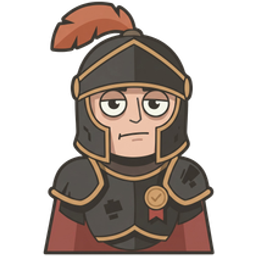
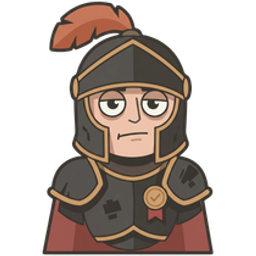
feat：剪切图片透明背景

diff --git a/tmp/run_trim_all.js b/tmp/run_trim_all.js
@@ -91,9 +91,13 @@ const SPEC = {
       continue;
     }
 
-    // resize trimmed → canonical 尺寸 with fit:contain
+    // UI 类：fit:'inside' 不加 padding，输出尺寸 = 内容缩放后尺寸（≤ tw×th）
+    // 其他类：fit:'contain' + bottom，缺差按透明 padding 顶部补齐
+    const resizeOpts = cat === 'ui'
+      ? { fit: 'inside', background: { r:0, g:0, b:0, alpha:0 } }
+      : { fit: 'contain', position: 'bottom', background: { r:0, g:0, b:0, alpha:0 } };
     const out = await sharp(buf1)
-      .resize(tw, th, { fit: 'contain', background: { r:0, g:0, b:0, alpha:0 } })
+      .resize(tw, th, resizeOpts)
       .png({ compressionLevel: 9 })
       .toBuffer();
     const m2 = await sharp(out).metadata();

diff --git a/tmp/run_aiart_bust.js b/tmp/run_aiart_bust.js
@@ -174,7 +174,7 @@ async function runOne(asset, stats) {
 
   await sharp(rmbgRaw)
     .trim({ background: { r: 0, g: 0, b: 0, alpha: 0 }, threshold: 1 })
-    .resize(asset.tw, asset.th, { fit: 'contain', background: { r: 0, g: 0, b: 0, alpha: 0 } })
+    .resize(asset.tw, asset.th, { fit: 'contain', position: 'bottom', background: { r: 0, g: 0, b: 0, alpha: 0 } })
     .png({ compressionLevel: 9 })
     .toFile(finalDst);
   log('final → ' + path.basename(finalDst) + ' (' + fs.statSync(finalDst).size + 'B, trim+resize)');
